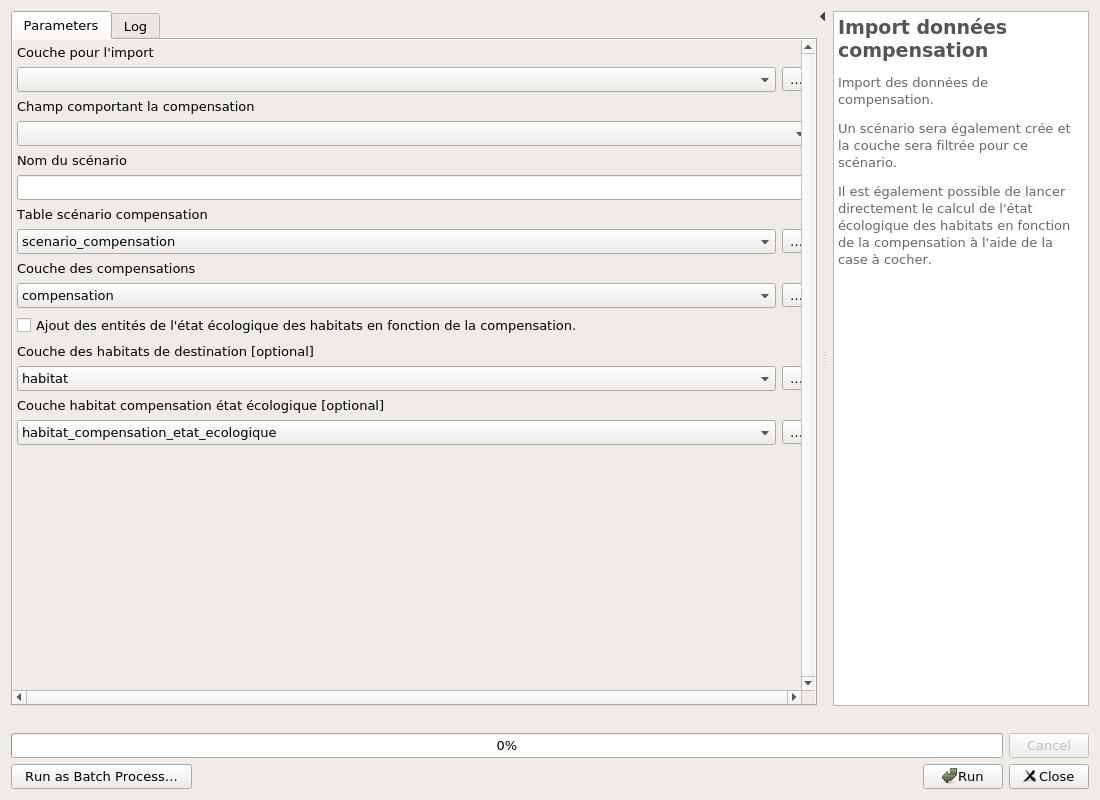
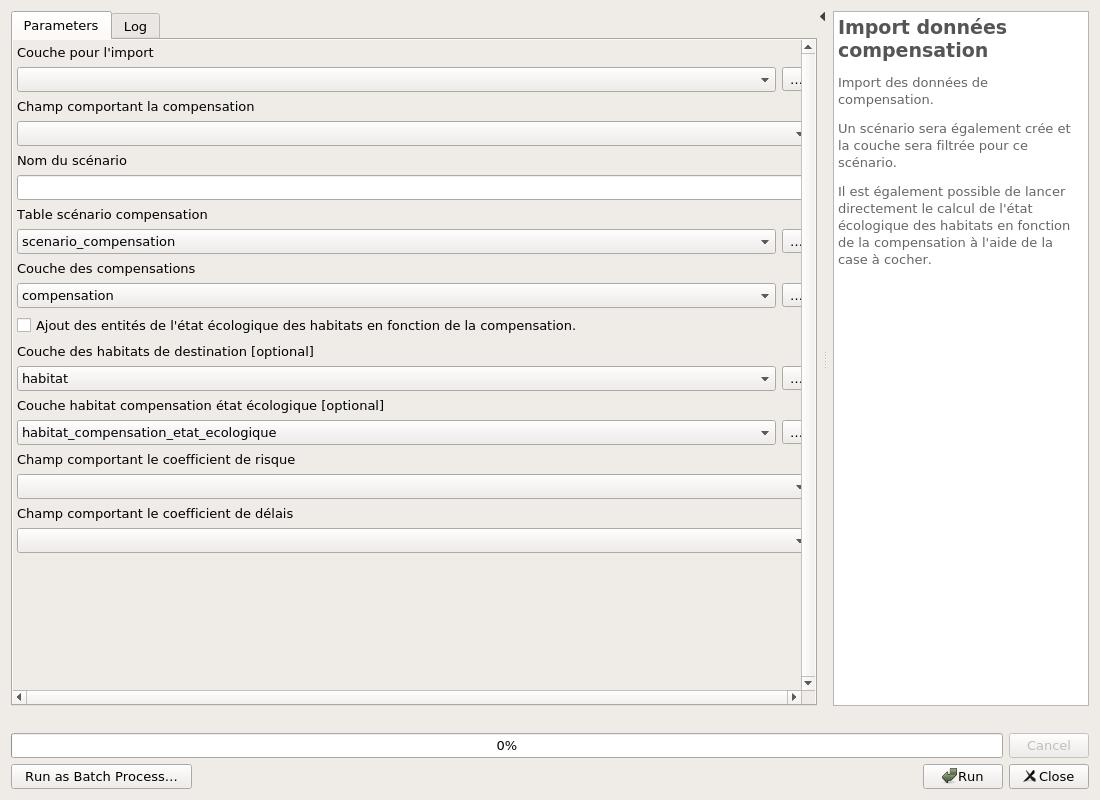
Ajout des coefficients delais et risque pour la compensation

Changed region(s): [[0.0, 0.5625, 0.2782, 0.5938], [0.0309, 0.625, 0.2782, 0.6562]]

diff --git a/mercicor/processing/imports/import_data_pression_compensation.py b/mercicor/processing/imports/import_data_pression_compensation.py
@@ -172,9 +172,18 @@ class BaseImportImpactData(BaseImportAlgorithm):
 
     def processAlgorithm(self, parameters, context, feedback):
         input_layer = self.parameterAsVectorLayer(parameters, self.INPUT_LAYER, context)
-        impact_field = self.parameterAsExpression(parameters, self.IMPACT_FIELD, context)
+        impact_field = self.parameterAsString(parameters, self.IMPACT_FIELD, context)
         scenario_name = self.parameterAsString(parameters, self.SCENARIO_NAME, context)
         scenario_layer = self.parameterAsVectorLayer(parameters, self.SCENARIO_LAYER, context)
+
+        # Only for compensation
+        if self.project_type == ProjectType.Compensation:
+            risque_field = self.parameterAsString(parameters, self.RISQUE_COEFFICIENT_CHAMP, context)
+            delais_field = self.parameterAsString(parameters, self.RISQUE_COEFFICIENT_CHAMP, context)
+        else:
+            risque_field = None
+            delais_field = None
+
         self._output_layer = self.parameterAsVectorLayer(parameters, self.OUTPUT_LAYER, context)
 
         index = input_layer.fields().indexOf(impact_field)
@@ -265,7 +274,11 @@ class BaseImportImpactData(BaseImportAlgorithm):
         feedback.pushInfo('Création du scénario numéro {} : {}'.format(self.scenario_id, scenario_name))
 
         request = QgsFeatureRequest()
-        request.setSubsetOfAttributes([impact_field], input_layer.fields())
+        requested_fields = [impact_field]
+        if self.project_type == ProjectType.Compensation:
+            requested_fields.append(delais_field)
+            requested_fields.append(risque_field)
+        request.setSubsetOfAttributes(requested_fields, input_layer.fields())
         for input_feature in layer.getFeatures(request):
 
             if feedback.isCanceled():
@@ -275,6 +288,10 @@ class BaseImportImpactData(BaseImportAlgorithm):
             output_feature.setGeometry(input_feature.geometry())
             output_feature.setAttribute('scenario_id', self.scenario_id)
             output_feature.setAttribute(self.destination_impact_field, input_feature[impact_field])
+            if self.project_type == ProjectType.Compensation:
+                output_feature.setAttribute('coeff_risque', input_feature[risque_field])
+                output_feature.setAttribute('coeff_delais', input_feature[delais_field])
+
             with edit(self.output_layer):
                 self.output_layer.addFeature(output_feature)
 
@@ -388,6 +405,8 @@ class ImportDataPression(BaseImportImpactData):
 class ImportDataCompensation(BaseImportImpactData):
 
     IMPACT_FIELD = 'COMPENSATION_FIELD'
+    RISQUE_COEFFICIENT_CHAMP = 'RISQUE_COEFFICIENT_CHAMP'
+    DELAIS_COEFFICIENT_CHAMP = 'DELAIS_COEFFICIENT_CHAMP'
     APPLY_CALCUL_HABITAT_IMPACT_ETAT_ECOLOGIQUE = 'APPLY_CALCUL_HABITAT_COMPENSATION_ETAT_ECOLOGIQUE'
     HABITAT_IMPACT_LAYER = 'HABITAT_COMPENSATION_LAYER'
 
@@ -403,3 +422,26 @@ class ImportDataCompensation(BaseImportImpactData):
     def destination_impact_field(self) -> str:
         """ Destination impact field. """
         return 'nom'
+
+    def initAlgorithm(self, config=None):
+
+        super().initAlgorithm(config)
+        self.addParameter(
+            QgsProcessingParameterField(
+                self.RISQUE_COEFFICIENT_CHAMP,
+                "Champ comportant le coefficient de risque",
+                None,
+                self.INPUT_LAYER,
+                QgsProcessingParameterField.Numeric,
+            )
+        )
+
+        self.addParameter(
+            QgsProcessingParameterField(
+                self.DELAIS_COEFFICIENT_CHAMP,
+                "Champ comportant le coefficient de délais",
+                None,
+                self.INPUT_LAYER,
+                QgsProcessingParameterField.Numeric,
+            )
+        )

diff --git a/mercicor/processing/calcul/calcul_pertes_gains.py b/mercicor/processing/calcul/calcul_pertes_gains.py
@@ -64,13 +64,15 @@ class BaseCalculPertesGains(CalculAlgorithm):
             'Liste des notes :\n\n'.format(self.project_type.calcul_type)
         )
         for field, formula in self.fields.items():
+            divider = '' if self.project_type == ProjectType.Pression else ' / (coeff_risque * coeff_delais)'
             message += (
                 '{type_calcul}_{output} = '
-                'La somme de ("{field_1} - {field_2} ") * surface, filtré par scénario\n\n'.format(
+                'La somme de ("{field_1} - {field_2} ") * surface{divider}, filtré par scénario\n\n'.format(
                     type_calcul=self.project_type.calcul_type,
                     output=field,
                     field_1=formula[0] if self.project_type == ProjectType.Pression else formula[1],
                     field_2=formula[1] if self.project_type == ProjectType.Pression else formula[0],
+                    divider=divider
                 )
             )
         return message
@@ -121,9 +123,13 @@ class BaseCalculPertesGains(CalculAlgorithm):
 
                     if self.project_type == ProjectType.Pression:
                         sub_result = feature[self.fields[note][0]] - feature[self.fields[note][1]]
+                        divide = 1
                     else:
+                        # Compensation
+                        # Tenir compte du délais et du risque
                         sub_result = feature[self.fields[note][1]] - feature[self.fields[note][0]]
-                    feat[field_name] += sub_result * feature.geometry().area()
+                        divide = feature['coeff_risque'] * feature['coeff_delais']
+                    feat[field_name] += (sub_result * feature.geometry().area()) / divide
 
             scenario_impact.updateFeature(feat)
         scenario_impact.commitChanges()

diff --git a/docs/processing/README.md b/docs/processing/README.md
@@ -14,17 +14,17 @@ Calcul des notes de gain à partir des indicateurs MERCI-Cor
 
 Liste des notes :
 
-gain_bsd = La somme de ("note_bsd - hab_note_bsd ") * surface, filtré par scénario
+gain_bsd = La somme de ("note_bsd - hab_note_bsd ") * surface / (coeff_risque * coeff_delais), filtré par scénario
 
-gain_bsm = La somme de ("note_bsm - hab_note_bsm ") * surface, filtré par scénario
+gain_bsm = La somme de ("note_bsm - hab_note_bsm ") * surface / (coeff_risque * coeff_delais), filtré par scénario
 
-gain_man = La somme de ("note_man - hab_note_man ") * surface, filtré par scénario
+gain_man = La somme de ("note_man - hab_note_man ") * surface / (coeff_risque * coeff_delais), filtré par scénario
 
-gain_pmi = La somme de ("note_pmi - hab_note_pmi ") * surface, filtré par scénario
+gain_pmi = La somme de ("note_pmi - hab_note_pmi ") * surface / (coeff_risque * coeff_delais), filtré par scénario
 
-gain_ben = La somme de ("note_ben - hab_note_ben ") * surface, filtré par scénario
+gain_ben = La somme de ("note_ben - hab_note_ben ") * surface / (coeff_risque * coeff_delais), filtré par scénario
 
-gain_mercicor = La somme de ("score_mercicor - hab_score_mercicor ") * surface, filtré par scénario
+gain_mercicor = La somme de ("score_mercicor - hab_score_mercicor ") * surface / (coeff_risque * coeff_delais), filtré par scénario
 
 
 
@@ -412,6 +412,8 @@ OUTPUT_LAYER|Couche des compensations|VectorLayer||✓||Default: compensation <b
 APPLY_CALCUL_HABITAT_COMPENSATION_ETAT_ECOLOGIQUE|Ajout des entités de l'état écologique des habitats en fonction de la compensation.|Boolean||✓|||
 HABITAT_LAYER|Couche des habitats de destination|VectorLayer||||Default: habitat <br> Type: TypeVectorPolygon <br>|
 HABITAT_COMPENSATION_LAYER|Couche habitat compensation état écologique|VectorLayer||||Default: habitat_compensation_etat_ecologique <br> Type: TypeVectorPolygon <br>|
+RISQUE_COEFFICIENT_CHAMP|Champ comportant le coefficient de risque|Field||✓|||
+DELAIS_COEFFICIENT_CHAMP|Champ comportant le coefficient de délais|Field||✓|||
 
 
 #### Outputs
